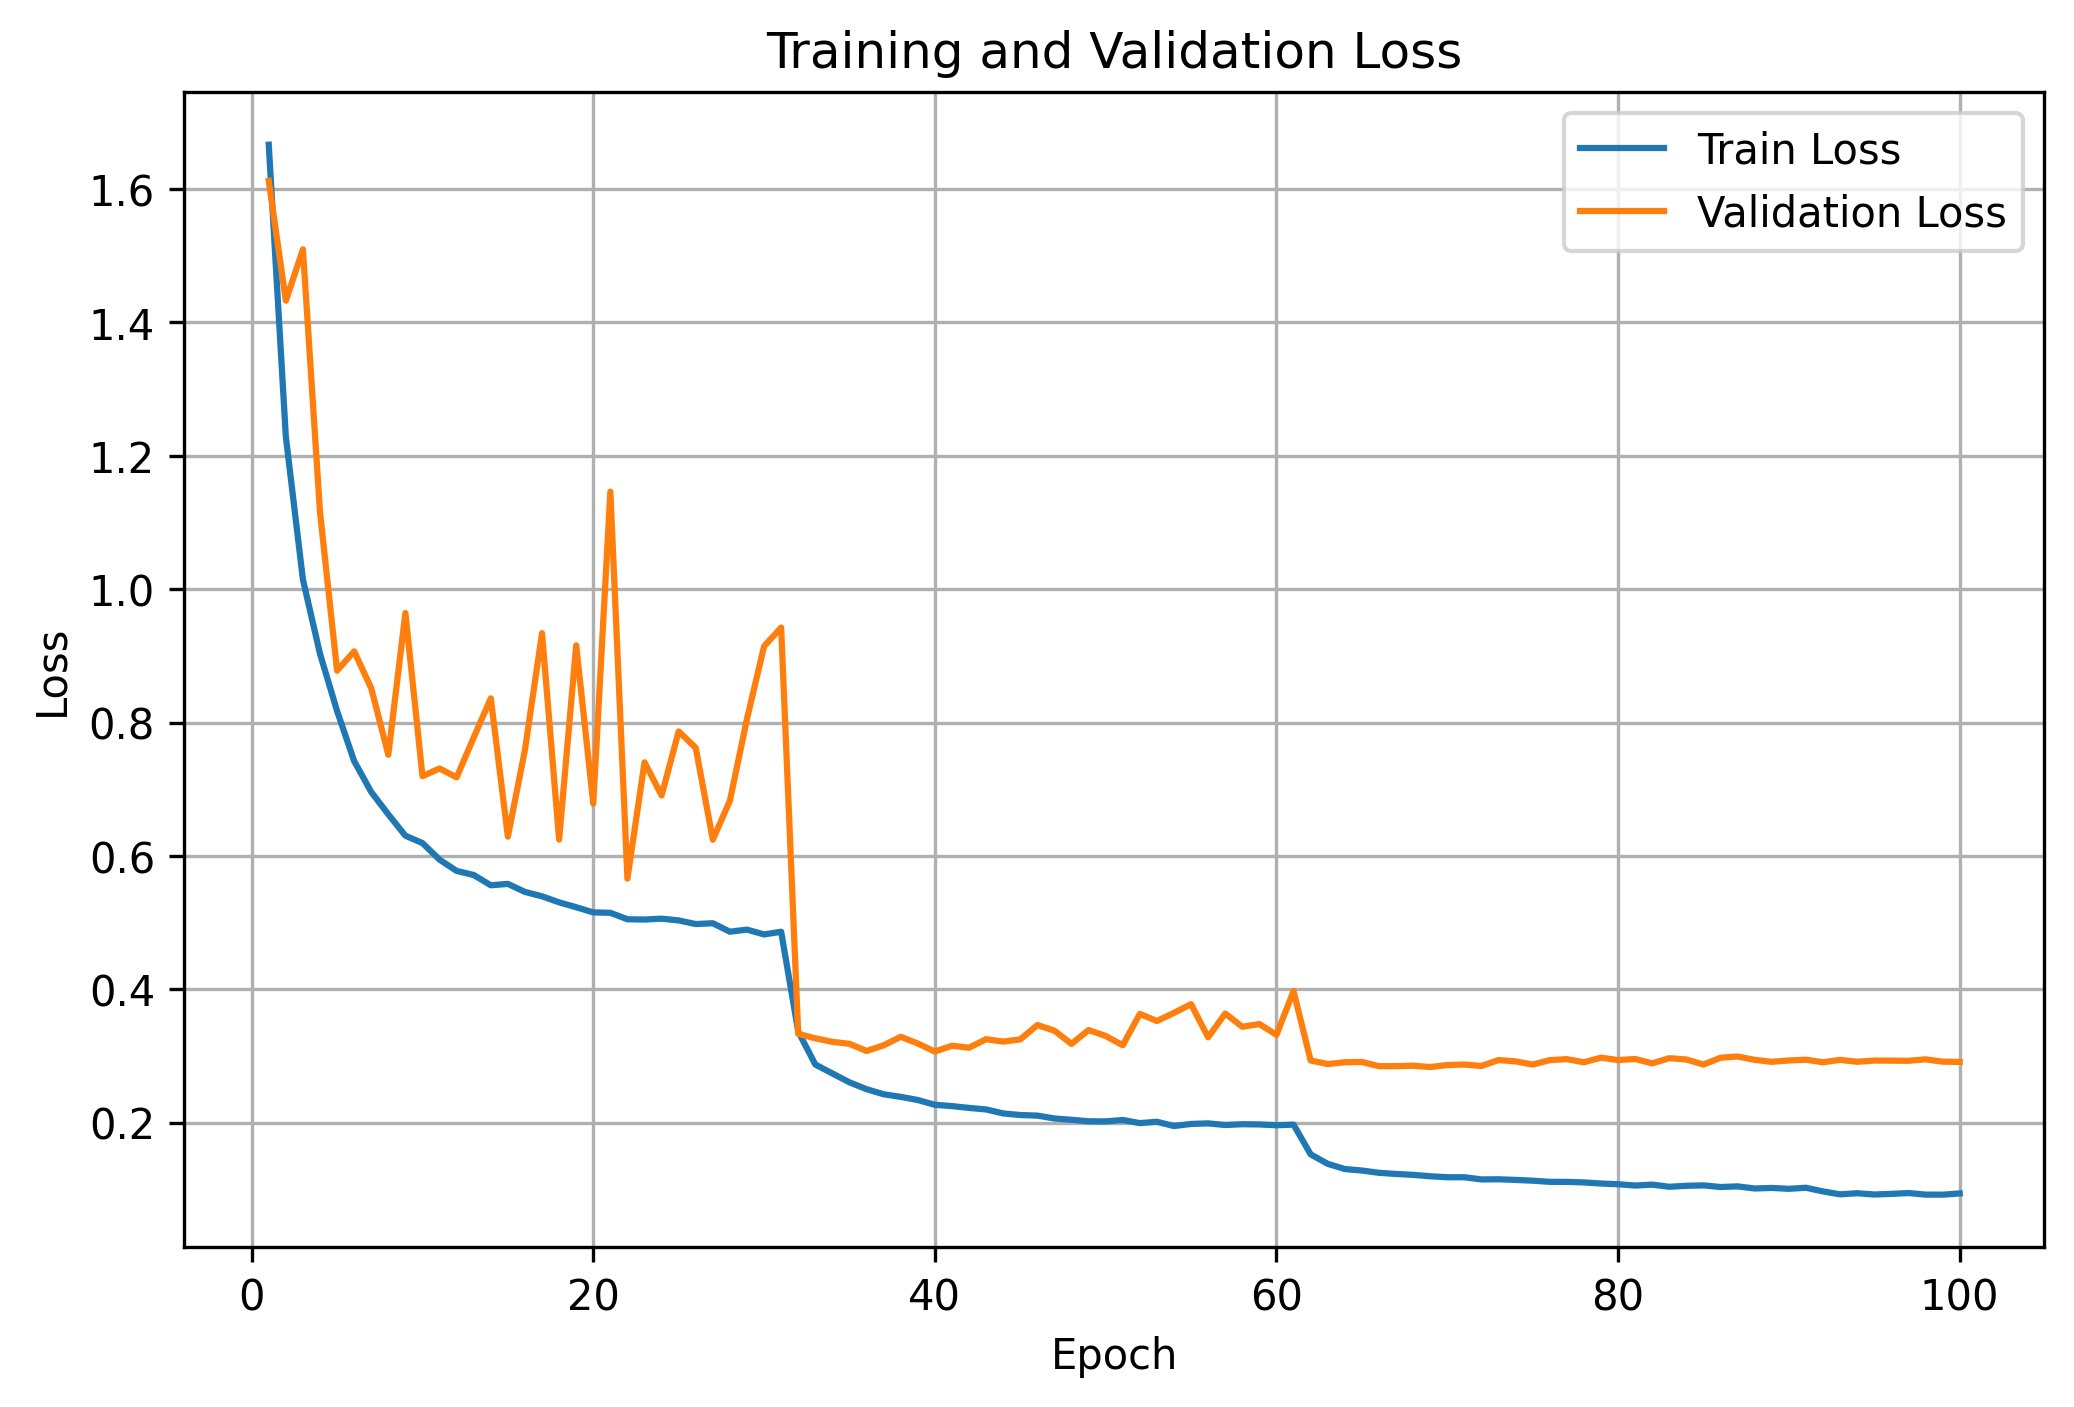
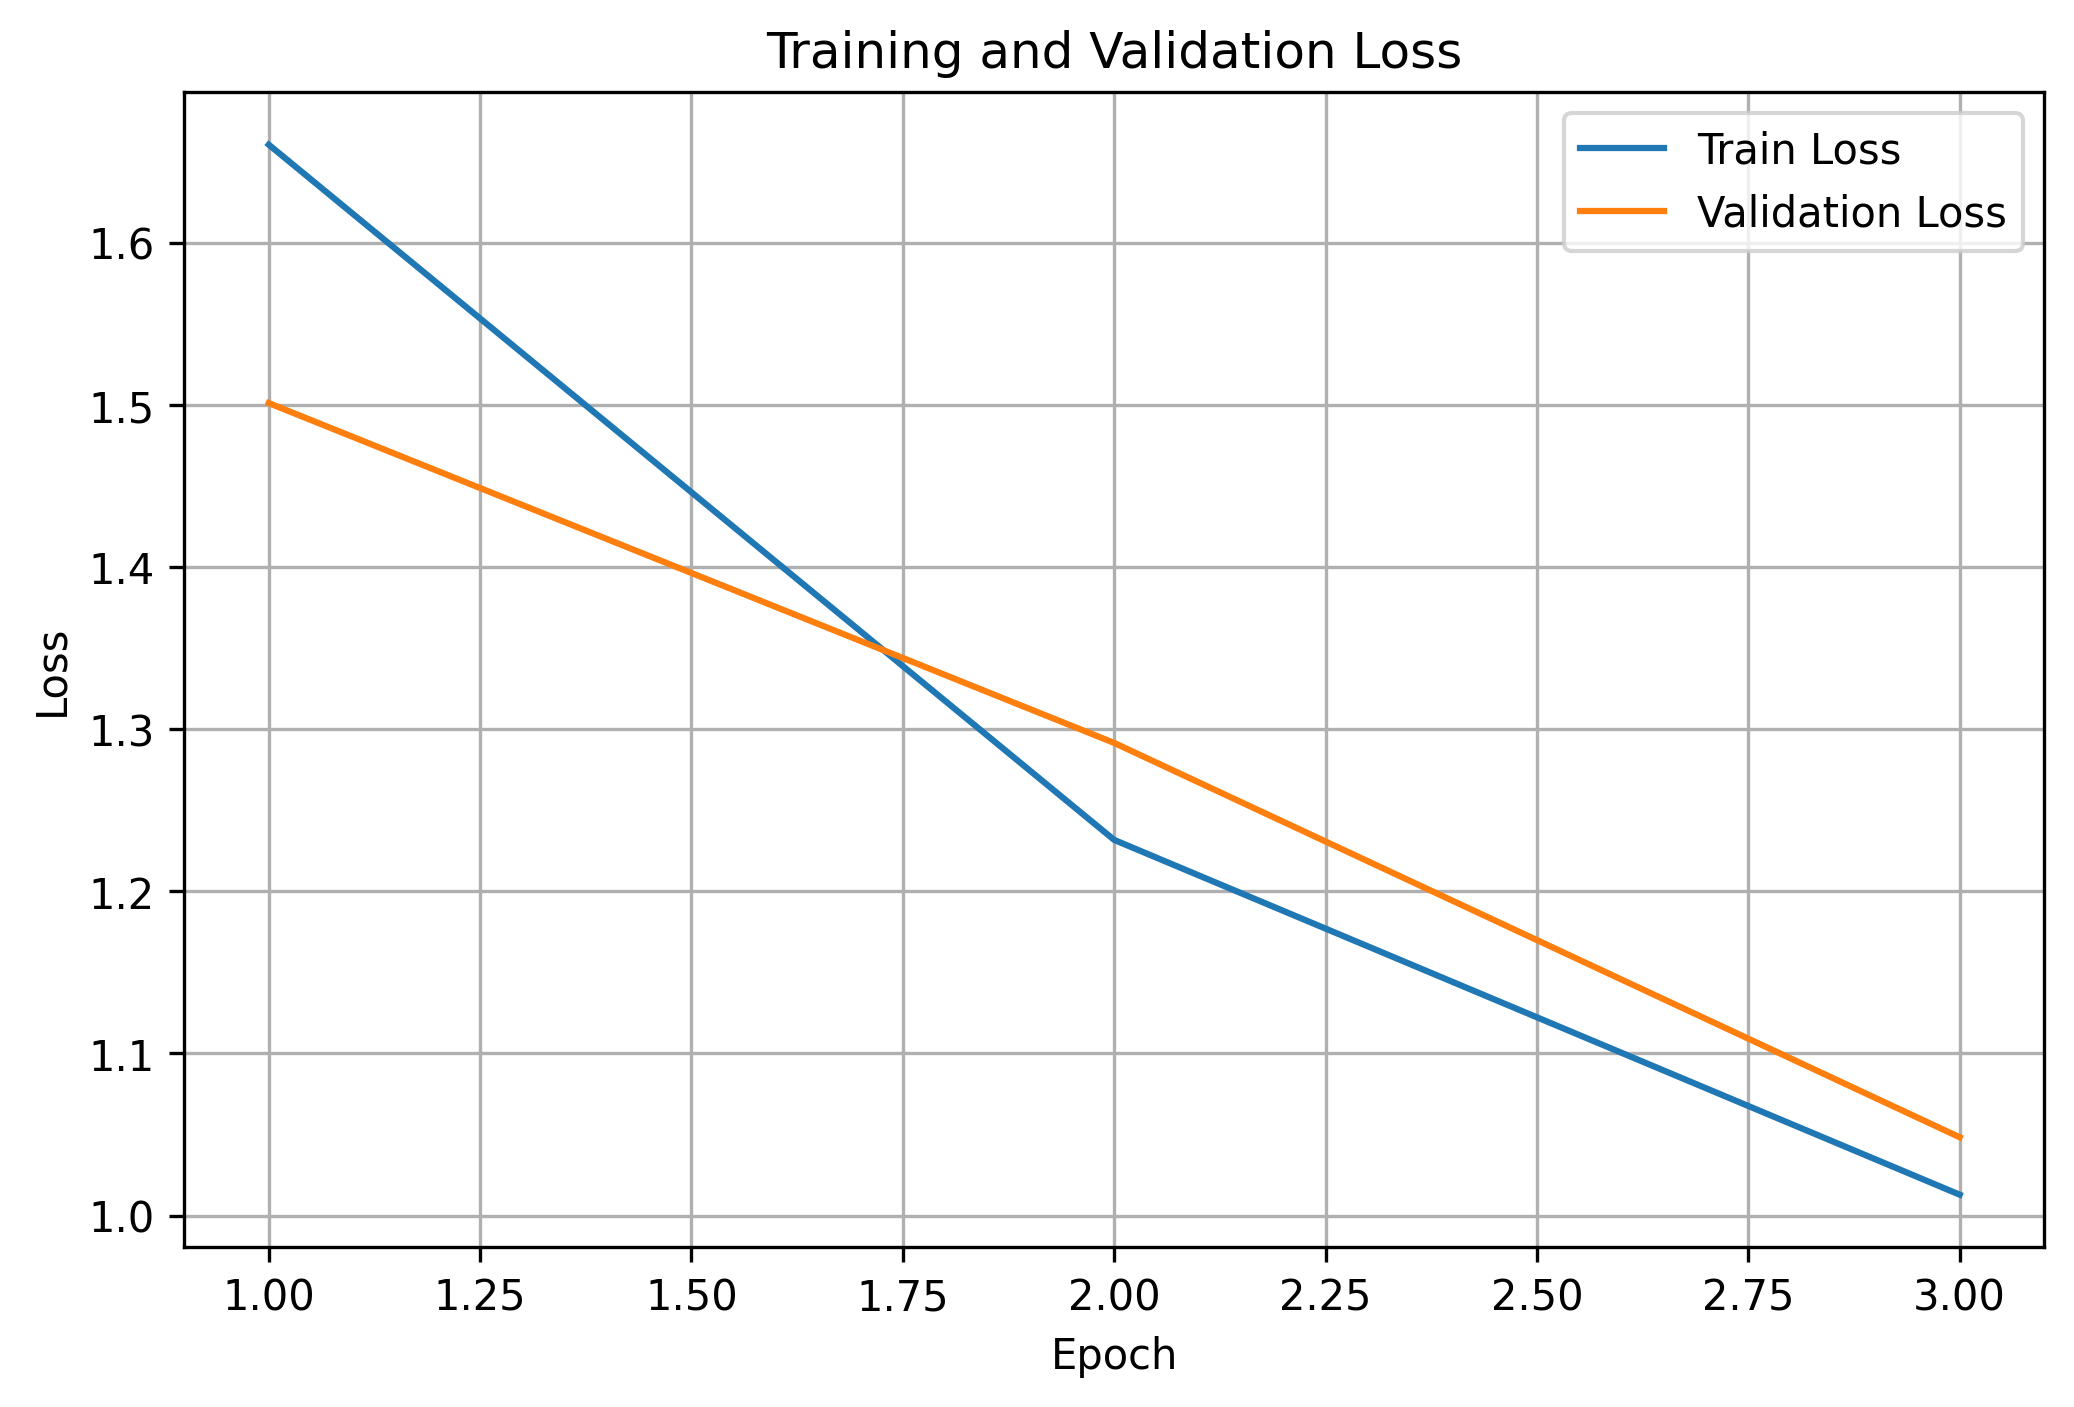
accs across epochs diagram added

diff --git a/models/cnn.py b/models/cnn.py
@@ -4,6 +4,19 @@ import torch.nn.functional as F
 
 
 class ResidualBlock(nn.Module):
+    """
+    A single residual block with optional downsampling and dropout.
+
+    Args:
+        in_channels (int): Number of input channels.
+        out_channels (int): Number of output channels.
+        stride (int, optional): Stride of the first convolution. Default: 1.
+        dropout (float, optional): Dropout probability after first conv. Default: 0.0.
+
+    Notes:
+        - If stride != 1 or in_channels != out_channels, a 1x1 convolution
+          is applied in the shortcut to match dimensions.
+    """
     def __init__(self, in_channels, out_channels, stride=1, dropout=0.0):
         super().__init__()
 
@@ -43,6 +56,16 @@ class ResidualBlock(nn.Module):
             )
 
     def forward(self, x):
+        """
+        Forward pass through the residual block.
+
+        Args:
+            x (torch.Tensor): Input feature map of shape (B, C, H, W)
+
+        Returns:
+            torch.Tensor: Output feature map of same or downsampled spatial size
+                          depending on stride.
+        """
         out = F.relu(self.bn1(self.conv1(x)))
         out = self.dropout(out)
         out = self.bn2(self.conv2(out))
@@ -53,6 +76,19 @@ class ResidualBlock(nn.Module):
 
 
 class SmallResNet(nn.Module):
+    """
+    A small ResNet-inspired CNN for CIFAR-10 classification (<400k parameters).
+
+    Architecture:
+        - Stem: Conv3x3 -> BN -> ReLU
+        - Layer1: 2 x ResidualBlock(32,32)
+        - Layer2: ResidualBlock(32,64,stride=2,dropout=0.2) + ResidualBlock(64,64)
+        - Layer3: ResidualBlock(64,112,stride=2,dropout=0.3)
+        - AdaptiveAvgPool -> Flatten -> Fully-connected layer
+
+    Args:
+        num_classes (int): Number of output classes (default=10 for CIFAR-10)
+    """
     def __init__(self, num_classes=10):
         super().__init__()
 
@@ -80,6 +116,15 @@ class SmallResNet(nn.Module):
         self.fc = nn.Linear(112, num_classes)
 
     def forward(self, x):
+        """
+        Forward pass through the network.
+
+        Args:
+            x (torch.Tensor): Input image batch, shape (B, 3, 32, 32)
+
+        Returns:
+            torch.Tensor: Logits of shape (B, num_classes)
+        """
         x = self.stem(x)
         x = self.layer1(x)
         x = self.layer2(x)
@@ -90,10 +135,6 @@ class SmallResNet(nn.Module):
         return x
 
 
-def count_parameters(model):
-    return sum(p.numel() for p in model.parameters() if p.requires_grad)
-
-
 if __name__ == "__main__":
     model = SmallResNet()
-    print(f"Trainable parameters: {count_parameters(model):,}")
+    print(f"Trainable parameters: {sum(p.numel() for p in model.parameters())}")

diff --git a/train.py b/train.py
@@ -87,12 +87,13 @@ def train():
     
     start_epoch = 0
     train_losses = []
+    train_accs = []
     val_losses = []
-    best_val_loss = float("inf")
+    val_accs = []
     
     if resume_path is not None:
         logger.info("Resuming training from checkpoint...")
-        start_epoch, train_losses, val_losses, best_val_loss = load_checkpoint(
+        start_epoch, train_losses, train_accs, val_losses, val_accs = load_checkpoint(
             model, optimizer, resume_path, device
         )
         
@@ -110,12 +111,10 @@ def train():
         
         scheduler.step()
 
-        is_best = val_loss < best_val_loss
-        if is_best:
-            best_val_loss = val_loss
-
         train_losses.append(train_loss)
+        train_accs.append(train_acc)
         val_losses.append(val_loss)
+        val_accs.append(val_acc)
 
         save_checkpoint(
             state={
@@ -123,10 +122,10 @@ def train():
                 "model_state": model.state_dict(),
                 "optimizer_state": optimizer.state_dict(),
                 "train_losses": train_losses,
+                "train_accs": train_accs,
                 "val_losses": val_losses,
-                "best_val_loss": best_val_loss,
+                "val_accs": val_accs,
             },
-            is_best=is_best,
             checkpoint_dir=checkpoint_dir
         )
 
@@ -136,10 +135,25 @@ def train():
             f"Val Loss: {val_loss:.4f}, Val Acc: {val_acc:.4f}"
         )
 
-    return model, train_losses, val_losses
+    return model, train_losses, train_accs, val_losses, val_accs
 
 
 if __name__ == "__main__":
-    model, train_losses, val_losses = train()
+    model, train_losses, train_accs, val_losses, val_accs = train()
     device = get_device()
-    plot_losses(train_losses, val_losses)
+    plot_losses(
+        train_losses,
+        val_losses,
+        "Training and Validation Loss",
+        "Train Loss",
+        "Validation Loss",
+        save_path="loss_curve.png"
+    )
+    plot_losses(
+        train_accs,
+        val_accs,
+        "Training and Validation Accuracy",
+        "Train Accuracy",
+        "Validation Accuracy",
+        save_path="accuracy_curve.png"
+    )

diff --git a/utils/plot_loss_epoch.py b/utils/plot_loss_epoch.py
@@ -1,15 +1,15 @@
 import torch
 import matplotlib.pyplot as plt
 
-def plot_losses(train_losses, val_losses, save_path="./"):
-    epochs = range(1, len(train_losses) + 1)
+def plot_losses(x, y, title, x_label, y_label, save_path="./"):
+    epochs = range(1, len(x) + 1)
 
     plt.figure(figsize=(8, 5))
-    plt.plot(epochs, train_losses, label="Train Loss")
-    plt.plot(epochs, val_losses, label="Validation Loss")
+    plt.plot(epochs, x, label=x_label)
+    plt.plot(epochs, y, label=y_label)
     plt.xlabel("Epoch")
     plt.ylabel("Loss")
-    plt.title("Training and Validation Loss")
+    plt.title(title)
     plt.legend()
     plt.grid(True)
 
@@ -21,10 +21,23 @@ def plot_losses(train_losses, val_losses, save_path="./"):
 if __name__ == "__main__":
     checkpoint = torch.load("checkpoints/last.pth", map_location="cpu")
     train_losses = checkpoint["train_losses"]
+    train_accs = checkpoint["train_accs"]
     val_losses = checkpoint["val_losses"]
-
+    val_accs = checkpoint["val_accs"]
+    
     plot_losses(
         train_losses,
         val_losses,
+        "Training and Validation Loss",
+        "Train Loss",
+        "Validation Loss",
         save_path="loss_curve.png"
+    )
+    plot_losses(
+        train_accs,
+        val_accs,
+        "Training and Validation Accuracy",
+        "Train Accuracy",
+        "Validation Accuracy",
+        save_path="accuracy_curve.png"
     )

diff --git a/utils/checkpoint.py b/utils/checkpoint.py
@@ -2,7 +2,7 @@ import torch
 import os
 import re
 
-def save_checkpoint(state, is_best, checkpoint_dir="checkpoints"):
+def save_checkpoint(state, checkpoint_dir="checkpoints"):
     os.makedirs(checkpoint_dir, exist_ok=True)
 
     # Save epoch checkpoint
@@ -36,7 +36,8 @@ def load_checkpoint(model, optimizer, checkpoint_path, device):
 
     start_epoch = checkpoint["epoch"] + 1
     train_losses = checkpoint["train_losses"]
+    train_accs = checkpoint["train_accs"]
     val_losses = checkpoint["val_losses"]
-    best_val_loss = checkpoint["best_val_loss"]
+    val_accs = checkpoint["val_accs"]
 
-    return start_epoch, train_losses, val_losses, best_val_loss
+    return start_epoch, train_losses, train_accs, val_losses, val_accs
